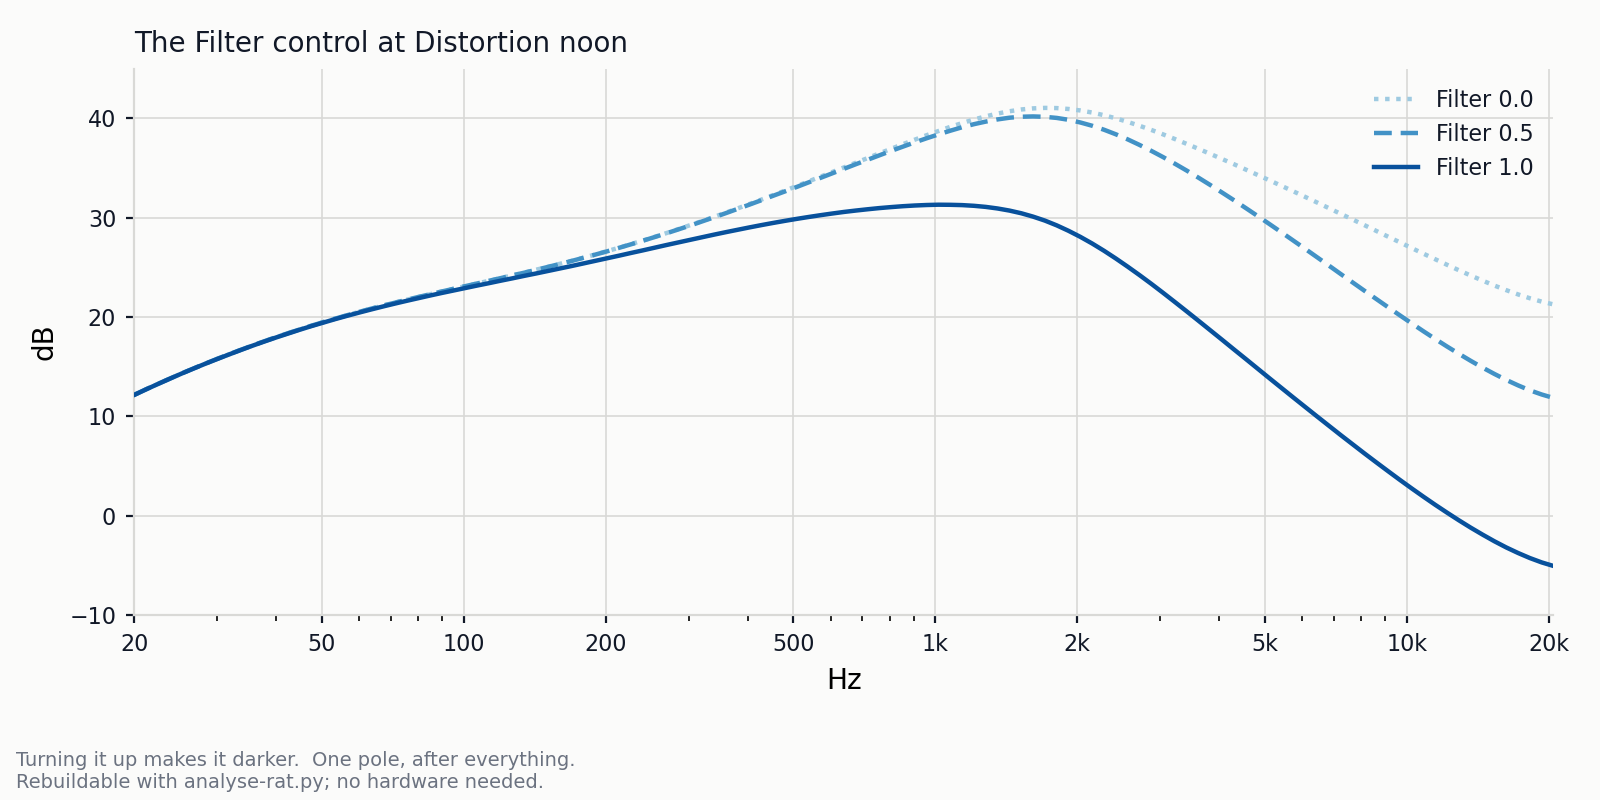
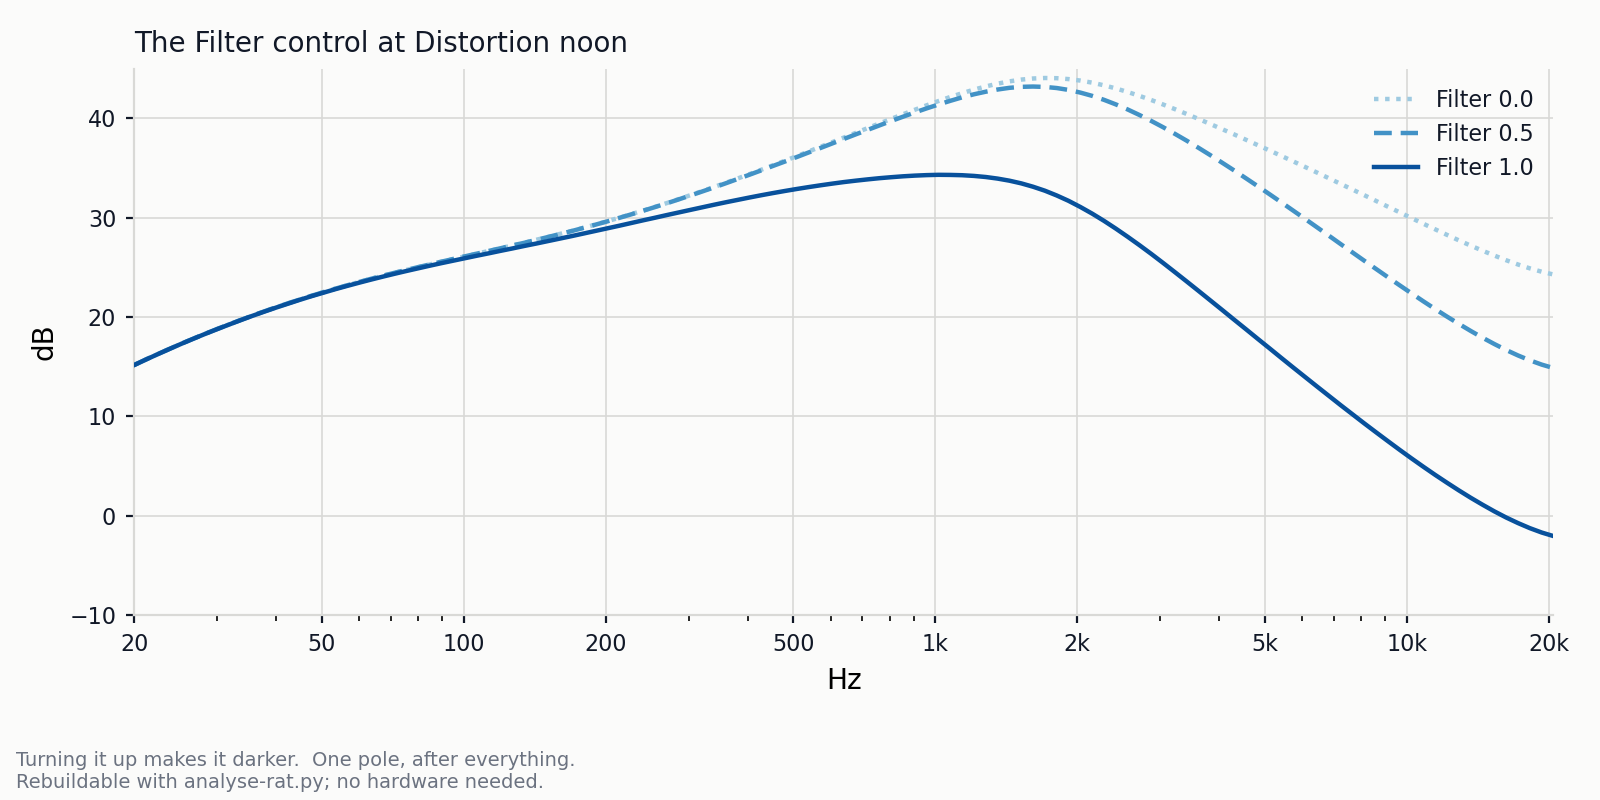
Validation: measure [RAT]'s small-signal gain against its own input
gain_at() took the output's level with loop.tone_db(), which is
RMS-referenced, and subtracted the nominal it had asked loop.tone() for,
which is a peak. Every figure came out one crest factor low:

    f=  20  tone_db= -15.0103      f= 640  tone_db= -15.0103
    f= 220  tone_db= -15.0103      f=1000  tone_db= -15.0103

against a -12 dBFS nominal, at every frequency. Measure both ends with
the same function.

Both response tables in rat.md and the two figures drawn from them move
by 3.01 dB - Distortion 0.45 at 640 Hz was 34.91 and is 37.92.
check-analysis.py could not catch it, because it re-runs the same
function and the page reproduced.

compare-spice.py takes the same quantity as a ratio of transform
magnitudes and was always right, so the two have disagreed by 3 dB for
as long as both have existed.

Changed region(s): [[0.0938, 0.0938, 0.9688, 0.7188], [0.875, 0.375, 0.9688, 0.5]]

diff --git a/Validation/analyse-rat.py b/Validation/analyse-rat.py
@@ -111,12 +111,20 @@ def run(k, x):
 
 
 def gain_at(k, hz, dbfs=SMALL_SIGNAL):
-    """Small-signal gain, on a whole number of cycles at each frequency."""
+    """Small-signal gain: the output's level against the input's own.
+
+    Measured both ends with the same function rather than against the
+    nominal.  loop.tone() is given a *peak* in dBFS and loop.tone_db()
+    reports an RMS-referenced level, so subtracting the nominal left
+    every figure 3.01 dB - one crest factor - low.
+    """
     out = []
     for f in hz:
         n = max(int(round(FS / f)) * 60, 9600)
-        out.append(round(loop.tone_db(run(k, loop.tone(float(f), dbfs, n)),
-                                      float(f)) - dbfs, 2))
+        x = loop.tone(float(f), dbfs, n)
+        y = run(k, x)
+        out.append(round(loop.tone_db(y, float(f))
+                         - loop.tone_db(x, float(f)), 2))
     return out
 
 

diff --git a/Documentation/effects/rat.md b/Documentation/effects/rat.md
@@ -69,9 +69,9 @@ pedal.
 <!-- measured
 | dB at | 20 | 40 | 80 | 160 | 320 | 640 | 1.3k | 2.6k | 5.1k | 10k | 20k |
 |---|---|---|---|---|---|---|---|---|---|---|---|
-| Distortion 0.0 | -6.02 | -5.24 | -5.03 | -4.99 | -5.0 | -5.11 | -5.52 | -6.87 | -9.95 | -14.35 | -17.94 |
-| Distortion 0.45 | 12.15 | 17.96 | 22.0 | 25.34 | 29.61 | 34.91 | 39.67 | 37.88 | 29.34 | 19.36 | 11.84 |
-| Distortion 1.0 | 32.71 | 38.64 | 42.91 | 46.85 | 53.26 | 56.65 | 46.81 | 38.52 | 29.3 | 19.32 | 11.8 |
+| Distortion 0.0 | -3.01 | -2.23 | -2.02 | -1.98 | -1.99 | -2.1 | -2.51 | -3.86 | -6.93 | -11.34 | -14.93 |
+| Distortion 0.45 | 15.16 | 20.97 | 25.01 | 28.35 | 32.62 | 37.92 | 42.68 | 40.89 | 32.35 | 22.37 | 14.85 |
+| Distortion 1.0 | 35.72 | 41.65 | 45.92 | 49.86 | 56.27 | 59.66 | 49.82 | 41.53 | 32.31 | 22.33 | 14.81 |
 -->
 
 
@@ -271,9 +271,9 @@ rather than shaping what the diodes see.
 <!-- measured
 | dB at | 20 | 40 | 80 | 160 | 320 | 640 | 1.3k | 2.6k | 5.1k | 10k | 20k |
 |---|---|---|---|---|---|---|---|---|---|---|---|
-| Filter 0.0 | 12.15 | 17.96 | 22.0 | 25.35 | 29.65 | 35.05 | 40.2 | 39.64 | 33.75 | 26.94 | 21.26 |
-| Filter 0.5 | 12.15 | 17.96 | 22.0 | 25.34 | 29.61 | 34.91 | 39.67 | 37.88 | 29.34 | 19.36 | 11.84 |
-| Filter 1.0 | 12.14 | 17.93 | 21.88 | 24.88 | 28.02 | 30.57 | 31.08 | 25.06 | 13.81 | 2.74 | -5.08 |
+| Filter 0.0 | 15.16 | 20.97 | 25.01 | 28.36 | 32.66 | 38.06 | 43.21 | 42.65 | 36.76 | 29.95 | 24.27 |
+| Filter 0.5 | 15.16 | 20.97 | 25.01 | 28.35 | 32.62 | 37.92 | 42.68 | 40.89 | 32.35 | 22.37 | 14.85 |
+| Filter 1.0 | 15.15 | 20.94 | 24.89 | 27.89 | 31.03 | 33.58 | 34.09 | 28.07 | 16.83 | 5.75 | -2.07 |
 -->
 
 
